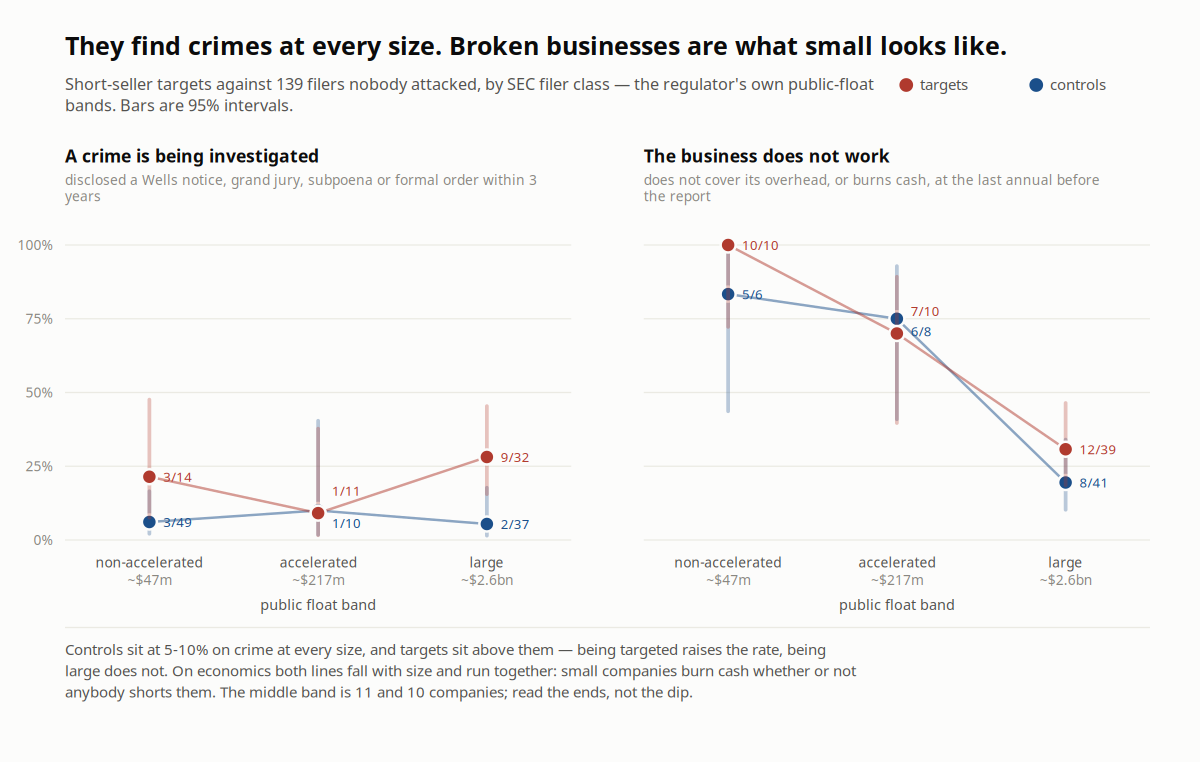
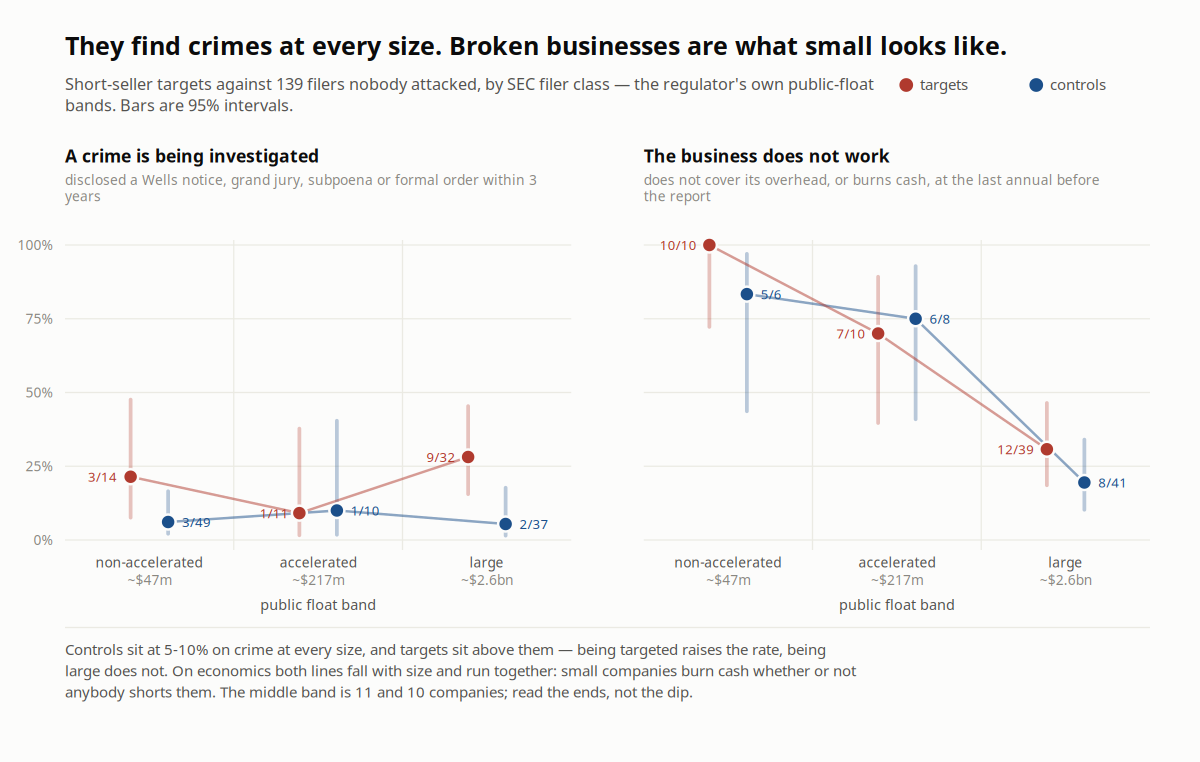
short-seller: dodge the two series apart in two-jackpots
Stacked on one x position the target and control intervals overlapped and
neither could be read. They are now offset by a fixed pair distance, with a faint
separator grouping each pair back into its size band, and the count labels follow
their own track outward.

Dodge rather than jitter: a random offset on an ordinal axis asserts x positions
that do not exist -- no company sits between "accelerated" and "large
accelerated".

Boxplots were considered and rejected, and the reasoning is in the docstring. The
crime axis is binary per company so there is no distribution to box. The
economics axis has one, but four of its six cells hold 6-10 companies and
quartiles from six points assert precision the sample does not have; the tails
(-93x to +27x on cash burn) would need clipping before a box could be drawn.

Changed region(s): [[0.555, 0.3018, 0.8325, 0.5433], [0.0617, 0.5433, 0.4625, 0.6942], [0.8325, 0.5131, 0.925, 0.664]]

diff --git a/recipes/short-seller-method-corpus/artifacts/scripts/chart-two-jackpots.py b/recipes/short-seller-method-corpus/artifacts/scripts/chart-two-jackpots.py
@@ -31,6 +31,20 @@ it should: median $47m, $217m and $2,600m across the three bands.
 **The middle band is thin and is drawn thin.** Eleven targets and ten controls, so its
 intervals swallow most of the panel. Do not read the dip; read the two ends.
 
+**The two series are dodged apart, not jittered.** Stacked on one x position their
+intervals overlapped and neither could be read. Random jitter would fix that by
+asserting x positions that do not exist -- there is no company sitting between
+"accelerated" and "large accelerated" -- so the offset is a fixed paired one and every
+mark still sits at a real value. A faint separator groups each pair back into its band.
+
+**Boxplots were the other candidate and do not survive the sample.** The crime axis is
+binary per company, so there is no distribution to box at all. The economics axis has
+one -- operating margin -- but four of its six cells hold between six and ten
+companies, and quartiles drawn from six points assert a precision that is not there.
+The tails make it worse: operating margin runs from -49x to +0.39 among small targets
+and cash burn from -93x to +27x, so any box would need clipping before it could be
+drawn. A rate with an interval says what the sample can support.
+
 **One caution on the crime panel that does not go away.** A short report can cause the
 investigation it appears to predict -- regulators read these, and a public allegation
 is itself a reason to open a file. Nothing here separates "found a company already
@@ -155,8 +169,17 @@ def main():
             if pi == 0:
                 s.append(txt(x0 - 10, y + 4, f"{g:.0%}", size=11, fill=MUTED,
                              anchor="end", tab=True))
+        # Targets and controls are DODGED, not jittered. Random jitter on an ordinal
+        # axis asserts x positions that do not exist -- there is no company "between"
+        # accelerated and large accelerated. A fixed paired offset separates the two
+        # series and every mark still sits at a real value.
         bx = [x0 + pw * (j + 0.5) / 3 for j in range(3)]
+        DODGE = 15
         for j, (b, thresh, med) in enumerate(BANDS):
+            if j:
+                sep = x0 + pw * j / 3
+                s.append(f'<line x1="{sep:.1f}" y1="{TOP - 4}" x2="{sep:.1f}" '
+                         f'y2="{TOP + ph + 8:.1f}" stroke="{RULE}" stroke-width="1"/>')
             s.append(txt(bx[j], TOP + ph + 22, b.replace(" ", "\n").split("\n")[0],
                          size=11, fill=INK2, anchor="middle"))
             s.append(txt(bx[j], TOP + ph + 36, med, size=11, fill=MUTED,
@@ -164,24 +187,24 @@ def main():
         # Lines connect because the x-axis is ordered by size: the connector asserts a
         # trend across size, which is exactly the claim each panel makes.
         for (ser, col, side) in ((sc, COOL, +1), (st, HOT, -1)):
-            pts = [(bx[j], sy(k / n)) for j, (k, n) in enumerate(ser) if n]
+            px = [b + side * DODGE for b in bx]
+            pts = [(px[j], sy(k / n)) for j, (k, n) in enumerate(ser) if n]
             s.append(f'<polyline points="{" ".join(f"{a:.1f},{b:.1f}" for a, b in pts)}" '
                      f'fill="none" stroke="{col}" stroke-width="2" stroke-opacity="0.5"/>')
             for j, (k, n) in enumerate(ser):
                 if not n:
                     continue
                 lo, hi = wilson(k, n)
-                s.append(f'<line x1="{bx[j]:.1f}" y1="{sy(lo):.1f}" x2="{bx[j]:.1f}" '
+                s.append(f'<line x1="{px[j]:.1f}" y1="{sy(lo):.1f}" x2="{px[j]:.1f}" '
                          f'y2="{sy(hi):.1f}" stroke="{col}" stroke-width="3" '
                          f'stroke-opacity="0.3" stroke-linecap="round"/>')
-                s.append(f'<circle cx="{bx[j]:.1f}" cy="{sy(k / n):.1f}" r="6" fill="{col}" '
+                s.append(f'<circle cx="{px[j]:.1f}" cy="{sy(k / n):.1f}" r="6" fill="{col}" '
                          f'stroke="{SURFACE}" stroke-width="2"/>')
-                # The two series can land within a few pixels -- 1/11 and 1/10 in the
-                # middle band overprinted. Push each label to its own side of the dot.
-                other = (st if col == COOL else sc)[j]
-                close = other[1] and abs(k / n - other[0] / other[1]) < 0.06
-                dy = (14 * side) if close else 4
-                s.append(txt(bx[j] + 11, sy(k / n) + dy, f"{k}/{n}", size=10.5, fill=col, tab=True))
+                # With the series dodged apart the labels follow them outward, so the
+                # count sits on the same side as its own track at every band.
+                lx = px[j] + (11 if side > 0 else -11)
+                s.append(txt(lx, sy(k / n) + 4, f"{k}/{n}", size=10.5, fill=col,
+                             anchor="start" if side > 0 else "end", tab=True))
         s.append(txt(x0 + pw / 2, TOP + ph + 56, "public float band", size=11.5,
                      fill=INK2, anchor="middle"))
 
